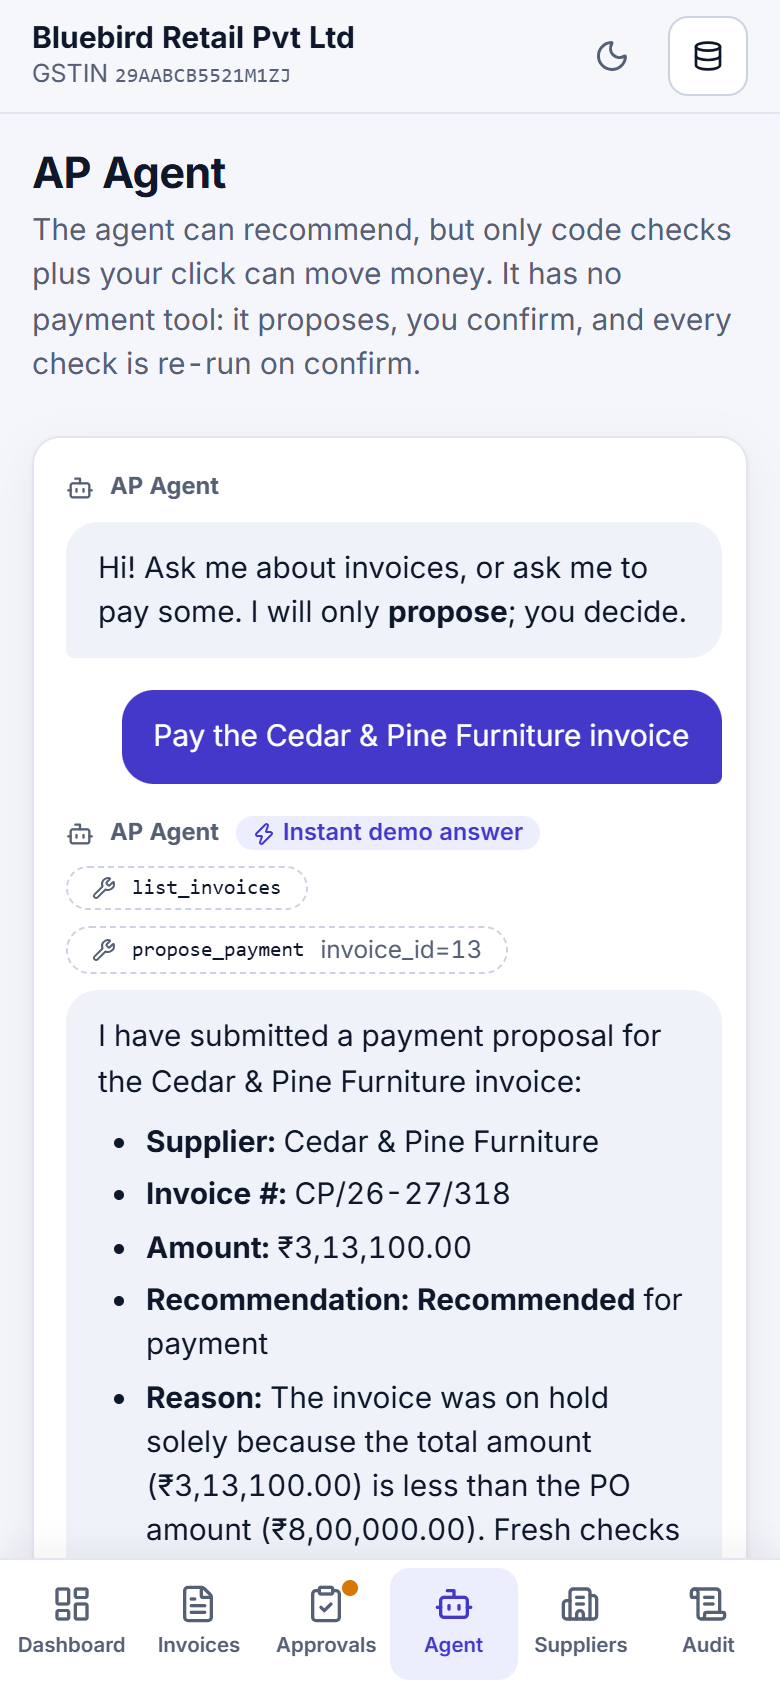
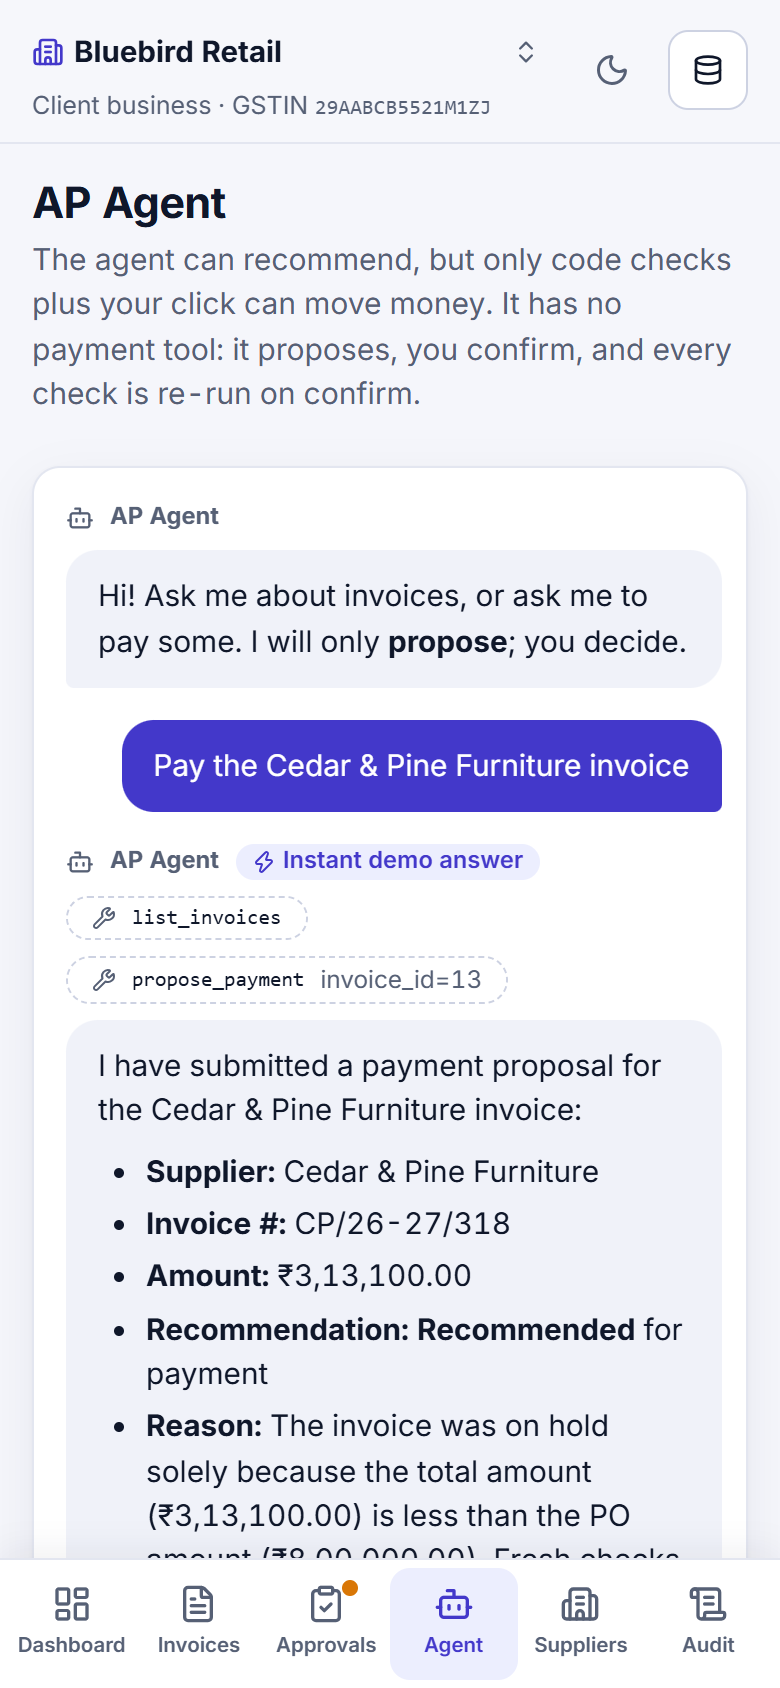
Final report and live-check evidence; code freeze

diff --git a/FINAL_REPORT.md b/FINAL_REPORT.md
@@ -1,62 +1,73 @@
 # InvoiceGuard India: final report (Prasunex Innovathon, Round 3)
 
-Live site: <https://invoiceguard-india.onrender.com> · Repo: `main` · Date of live check: 24 Nov 2026 (IST)
+Live site: <https://invoiceguard-india.onrender.com> · Repo: `main`, tagged **`round3-freeze`** · Live check date: 24 Nov 2026 (IST)
 
-## 1. What was delivered in this final pass
+**Status: code freeze.** The last commit before the freeze is the one this report describes; nothing is changed after it.
+
+## 1. What this last pass added
 
 | # | Request | What shipped | Where |
 |---|---|---|---|
-| 1 | All timestamps in IST | Audit log and journey show e.g. "24 Nov 2026, 5:13 pm IST". The daily payment limit now counts the **IST** day (it previously used the UTC day). | `timeutil.py`, `lib.ts` |
-| 2 | Better path for GST failures | **Ask supplier for a corrected invoice** drafts an email naming the exact GST issue(s), shows it (copy or open in mail app), logs `correction_requested`, and keeps the invoice on hold. **Approve & pay** on a GST failure requires a reason (min 8 characters), saved in the audit log. A block-level failure (fake GSTIN) can never be approved. The AP agent can never confirm a GST failure. | `corrections.py`, `pipeline.approve`, `actions.tsx` |
-| 3 | Sample invoices to download | **Download a sample invoice** menu next to Upload: 3 realistic PDFs (valid same-state, valid IGST, wrong tax type). They have their own purchase orders, so they behave as described even after the demo data is loaded. | `seed/upload_samples/`, `/api/samples` |
-| 4 | ITC protected card | GST amount on blocked or rejected invoices that failed a GST check (₹46,580 in the demo), plus a separate "still at risk on held invoices" line (₹20,100), with a one-line explanation. | `pipeline.itc_summary`, dashboard |
-| 5 | MSME payment timer | Suppliers marked micro/small with a written-agreement flag. Pay-by date and days left (45 days with an agreement, 15 without) under Section 43B(h); amber alert at 7 days or fewer, red when overdue; shown on Approvals, the drawer, the attention list and Suppliers, with a "guidance, not tax advice" note. | `msme.py` |
-| 6 | Fast AP agent chips | The three suggested prompts were recorded from a real Gemini run and are replayed against the live checks: about 0.4 s, tagged "Instant demo answer", with proposal cards and Confirm. Anything else still goes to Gemini live. | `agent.py`, `seed/agent_cache.json` |
-| 7 | Docs | README rewritten (features, screenshots, how GST, ITC and MSME work), `DEMO_SCRIPT.md` (3 minutes, covers all listed items), 23 refreshed screenshots in `docs/screenshots/`. | |
-| 8 | Live-site check | Results below. | `docs/live-check/` |
+| 1 | "How well it works" page | In-app page with the evaluation on the 12 labelled invoices: cases, fraud and errors caught (**7 / 7**), valid invoices wrongly held (**0 / 5**), money stopped, and **which check caught each case**. Generated from the real eval run (`python -m eval.run_eval --write` writes `eval/results.json`); a test fails if the file differs from a fresh run, so it cannot drift. Linked from the dashboard and the sidebar. | `eval/run_eval.py`, `Evaluation.tsx` |
+| 2 | Multi-business for CA firms | A top-bar switcher between client businesses. Demo data for two: **Bluebird Retail** (Bengaluru, 13 invoices) and **Kaveri Textiles** (Coimbatore, 7 invoices, 5 suppliers, wrong tax type, duplicate, changed payee, a partial delivery with an overdue MSME timer). Each business has its own GSTIN, suppliers, invoices, audit log, ITC, MSME timers, export, samples and agent view. Invoices are checked against that business's own GSTIN. Older databases are upgraded in place. | `businesses.py`, `routes.py`, `Shell.tsx` |
+| 3 | Tally-friendly export | **Export for Tally (CSV)**: Date, Supplier, Supplier GSTIN, Invoice No, Taxable Value, CGST, SGST, IGST, Total, Payment Reference. DD-MM-YYYY dates, plain rupee amounts, UTF-8 with BOM, saved supplier name and GSTIN, spreadsheet-formula injection neutralised, one file per business. | `exports.py` |
+| 4 | README | New **Architecture and scaling** (PostgreSQL, job queue, per-business isolation with row-level security, rate limits, audit-log retention, real payments) and **Practical rollout** (who pays, illustrative pricing, how a CA firm onboards clients, what is not built). Features, screenshots and counts updated; `DEMO_SCRIPT.md` rewritten around the CA story. | `README.md` |
+| 5 | Live check and freeze | Results below. | `docs/live-check/` |
 
 ## 2. Automated tests
 
-- Backend: **174 tests pass** (`python -m pytest`), up from 128 at the start of this pass. New coverage: IST conversion and the IST daily limit, approve-with-reason rules, correction drafts, ITC totals, sample download whitelist and each sample's expected result, MSME limits/boundaries/states, agent cache hit/miss/replay/confirm.
+- Backend: **201 tests pass** (`python -m pytest`), up from 174. New: 18 multi-business isolation tests, 6 export tests, 3 evaluation-page tests (including the staleness guard).
+- The isolation tests cover: invoice list, suppliers, summary and ITC, audit log, Tally export, samples and the agent's tools per business; other-business ids returning 404 on read, timeline, approve, reject, correction and refresh; a supplier of another business being unknown; the buyer GSTIN of the right business; daily limits not crossing businesses; agent confirm refusing another business's invoice; per-business agent recordings; and an old database being upgraded.
 - Frontend: `npm run build` (TypeScript + Vite) is clean.
-- Evaluation (`python -m eval.run_eval`): **7 / 7** fraud and error cases caught, **0 / 5** valid invoices wrongly held (small hand-built set; read it as a demonstration, not production accuracy).
+- Evaluation (`python -m eval.run_eval`): 7 / 7 and 0 / 5, unchanged by the multi-business work.
 
 ## 3. Live site check (real browser)
 
-**Method:** headless Microsoft Edge driven by `puppeteer-core` against the live URL, at **1440 x 900** and **390 x 844** (touch, device scale 2). The Chrome extension was not used. The script is a throwaway harness, not part of the repo. It captures console errors, page errors, failed requests and HTTP 5xx on every page.
+**Method:** headless Microsoft Edge driven by `puppeteer-core` against the live URL at **1440 x 900** and **390 x 844** (touch, device scale 2). The Chrome extension was not used. The scripts are throwaway harnesses, not part of the repo. They capture console errors, page errors, failed requests and HTTP 5xx.
 
-**Result on the final deployed build: 94 of 94 checks passed** (47 per viewport, including the landing-page checks, which only run when the site is empty).
+**Run A (everything from the previous pass, on the new build): 94 of 94 passed.** The live database was empty, so the landing-page flow was exercised too.
 
-| Area | What was checked | Result |
-|---|---|---|
-| Load | Site loads; landing page shows the pitch and the big button; no horizontal overflow | Pass (first load 3.4 s desktop, 1.3 s phone; the server was already awake) |
-| Try with demo data | Click it, dashboard appears with KPIs, ITC card (₹46,580.00), chart, 3 attention items | Pass (**1.5 s**) |
-| Every page | Dashboard, Invoices, Approvals, AP Agent, Suppliers, Audit log: correct heading, no overflow | Pass |
-| IST | Audit log timestamps end in "IST", none say "UTC" | Pass |
-| MSME | All 3 held invoices show class, pay-by and days left; alert text and "not tax advice" present | Pass |
-| Drawer | Six-step journey in order; GST breakdown and MSME timer present | Pass |
-| AP agent | Each of the 3 chips: instant tag, answered in **0.38 to 0.59 s**; chips 1 and 3 show a proposal with Confirm; Confirm pays and lists the result | Pass |
-| Samples | Menu lists 3 PDFs; each downloads as a real PDF | Pass |
-| Upload | Sample 1 paid, sample 2 paid, sample 3 held with "Wrong tax type"; drawer opens after upload | Pass |
-| GST failure path | Corrected-invoice draft names the issue and the supplier's email; approve asks for a reason and stays disabled until one is typed; approving pays; the audit log contains the reason and the correction request | Pass |
-| Reject | Reject removes the invoice from Approvals; ITC protected rises accordingly | Pass |
-| Themes | Dark mode on, persists after reload, light mode back on | Pass |
-| Health | No console errors, page errors, failed requests or 5xx on any page, either viewport | Pass |
+| Area | Result |
+|---|---|
+| Load and landing | Site loads (4.4 s desktop, 2.5 s phone); pitch and big button; no overflow |
+| Try with demo data | Dashboard in **1.8 s** (both businesses loaded) |
+| Every page | Dashboard, Invoices, Approvals, AP Agent, Suppliers, Audit log: correct heading, no overflow, IST timestamps |
+| ITC, MSME, drawer | ITC protected ₹46,580.00; MSME pay-by and days left on all held invoices with the guidance note; six-step journey |
+| AP agent chips | All three instant (**0.32 to 0.43 s**), tagged "Instant demo answer", proposals with Confirm, Confirm pays |
+| Samples and upload | 3 sample PDFs download; sample 1 and 2 paid, sample 3 held (wrong tax type); drawer opens after upload |
+| GST failure path | Corrected-invoice draft names the issue; approve asks for a reason and stays disabled until one is typed; reason and request appear in the audit log |
+| Reject, themes | Reject works and ITC updates; dark mode on, persists, light mode back |
+| Health | At most two toasts on screen; no console errors, page errors, failed requests or 5xx |
 
-Screenshots from the live run are in `docs/live-check/`.
+**Run B (this pass's features): 44 of 44 passed**, 22 per viewport.
 
-**Issues found by the live run, and what happened to them**
-1. *Phone toasts covered the drawer* when several appeared in a row (visible when uploading three samples). **Fixed**: at most two toasts, 5 seconds, text clamped to three lines. Deployed, and the final 94/94 run includes a check for it.
-2. *Two false failures in my own test script* (it matched an earlier toast). **Fixed in the script** and rerun clean. The app was not at fault.
+| Area | Result |
+|---|---|
+| Switcher | Lists both businesses; starts on Bluebird with its GSTIN; switching to Kaveri changes the GSTIN, KPIs (3 paid, 2 blocked, 2 on hold), attention list, invoices (7), suppliers (its own 5), approvals with MSME timers including "overdue by 3 days", audit log (only invoice ids 14 to 20) |
+| Per-business extras | Kaveri sample menu shows its own sample; Kaveri agent chips are its own and answer instantly (**0.40 s**) with a proposal; switching back works; the chosen business is remembered after reload |
+| Tally export | Kaveri CSV has the header plus 3 paid rows with correct columns; the button downloads and confirms ("paid-invoices-tally-kaveri-textiles-… with 3 paid invoices") |
+| Evaluation page | Opens from the dashboard link; 7 / 7 and 0 / 5; 12 cases with the check that caught each; no overflow |
+| Health | No console errors or 5xx at either width |
 
-After the checks I reset the live data with the demo reset endpoint, so the site is currently showing the 13 clean demo invoices (including the Cedar & Pine invoice). Free-plan Render restarts re-create and re-seed the database, which brings back the landing page.
+**Isolation on the live API (direct requests):** business 1 sees 13 invoices and business 2 sees 7; business 1 asking for business 2's invoice returns **404** on read, timeline and approve; business 2 asking for business 1's invoice returns 404; an unknown business returns 404; Tally export returns 5 rows for Bluebird and 3 for Kaveri.
+
+**Issues found during this pass**
+1. The switcher truncated the company name (even the short name on phones). **Fixed**: it now fills its space and shows the short name on phones; verified at both widths.
+2. The ITC card read "GST on 0 blocked invoices" for a business with none. **Fixed**: it now says there are none yet.
+3. My Tally export first used the supplier name as printed on the PDF (for example upper-case). **Fixed**: it exports the saved supplier name and GSTIN.
+
+After the checks I reset the live data (`POST /api/demo/run-samples`), so the site currently shows the clean 20-invoice, two-business demo. A free-plan Render restart re-seeds the database and brings back the landing page.
+
+Screenshots from the live runs are in `docs/live-check/`.
 
 ## 4. Limits and honest notes
 
-- **Payouts are simulated.** No real money moves. A real provider would implement the same adapter; that is not built or tested.
-- **The corrected-invoice email is a draft.** The app does not send email; it records that a draft was requested.
-- **MSME timer is guidance, not tax advice.** The clock starts at an "accepted" date stored per invoice. Uploaded invoices are accepted on the day of upload. For the demo, acceptance dates are set relative to the day the demo is loaded (Cedar & Pine 5 days left, Pinnacle 2, Orchard 25) so the countdown is meaningful whenever it is shown; this is stated in the README. Real acceptance dates would come from goods-receipt or approval records.
-- **ITC protected** is defined as GST on blocked or rejected invoices that failed a GST check; held ones are shown separately as "at risk". It is an indicator, not a tax computation.
-- **Agent instant answers are recordings** of a real Gemini run on the exact demo state; the tools and proposals are computed live on every replay, but the wording is reused. If the invoices change or the question is different, Gemini is called live (needs a key and quota).
-- **Not covered by the live run:** uploading an arbitrary new PDF (needs live Gemini; the key is set on the site, but I did not spend quota testing a new file there), and keyboard focus-trap behaviour on the live site (verified in a real browser against a local build in the previous pass, and unchanged since).
-- The evaluation set is small and hand-built.
+- **No authentication.** The business is chosen by a header the browser sends, so isolation today is a **data-model and test guarantee, not a security boundary**: anyone who can reach the API can pick any business. The README's architecture section describes the fix (users and roles, tokens carrying allowed businesses, PostgreSQL row-level security). This must be built before a second real firm is onboarded.
+- **Two demo businesses**, not three; the code supports any number.
+- **Payouts are simulated.** No real money moves. A real payout provider would implement the same adapter; that is not built or tested.
+- **The corrected-invoice email is a draft**; the app does not send email.
+- **MSME timer and ITC card are guidance, not tax advice.** The clock starts at an "accepted" date stored per invoice (uploads are accepted the day they are uploaded; the demo sets acceptance dates relative to the load day so the countdown is meaningful). ITC protected is GST on blocked or rejected invoices that failed a GST check, with held ones shown as "at risk"; it is an indicator, not a tax computation.
+- **Agent instant answers are recordings** of real Gemini runs on the exact demo state of each business; the tools and proposals are recomputed live on every replay. Other questions, or a changed invoice state, go to Gemini live (needs the key and quota).
+- **The evaluation set is small and hand-built** (12 invoices for Bluebird; Kaveri's invoices are demo data and not in the evaluation). Read 7 / 7 and 0 / 5 as a demonstration that the checks work, not as production accuracy. The honest accuracy number comes from the shadow-mode pilot described in the README.
+- **Not covered by the live run:** uploading an arbitrary new PDF (needs live Gemini; the key is set, but I did not spend quota on a new file), and the keyboard focus-trap checks, which were verified against a local build earlier and have not changed since.
+- Pricing and rollout in the README are ideas to validate, not tested with customers.

diff --git a/PROGRESS.md b/PROGRESS.md
@@ -33,3 +33,4 @@ Prasunex Innovathon Round 3. Built from the original InvoiceGuard repo. Each ste
 - [x] 3. Multi-business for CA firms: `businesses` table; suppliers, invoices (and through them POs, audit, summary, ITC, daily limit, export, agent, samples) are scoped per business via the `X-Business-Id` header; invoices of another business 404; a supplier of another business is unknown; each business is checked against its own GSTIN; second client "Kaveri Textiles" (Coimbatore) with 5 suppliers, 7 demo invoices (3 valid, wrong tax type, duplicate, changed payee, partial) and 1 sample; its agent chips recorded from live Gemini; old databases are upgraded in place; top-bar switcher. 18 isolation tests (201 total).
 - [x] 4. README: "Architecture and scaling" (PostgreSQL, job queue, per-business isolation + row-level security, rate limits, audit retention, payments) and "Practical rollout" (who pays, illustrative pricing, CA-firm onboarding, what is not built); features, counts and layout updated. DEMO_SCRIPT.md rewritten for the 3-minute flow with the client switcher, Tally export and evaluation page.
 - [x] 4b. Switcher shows the full name at both widths; 28 refreshed screenshots (new: client switcher, Kaveri approvals, How well it works) linked in the README.
+- [x] 5. Final live check on the deployed build: run A 94/94, run B (client switcher, isolation, Tally export, evaluation page, Kaveri agent chips) 44/44, plus direct API isolation checks; FINAL_REPORT.md updated. CODE FREEZE: tag `round3-freeze`.
